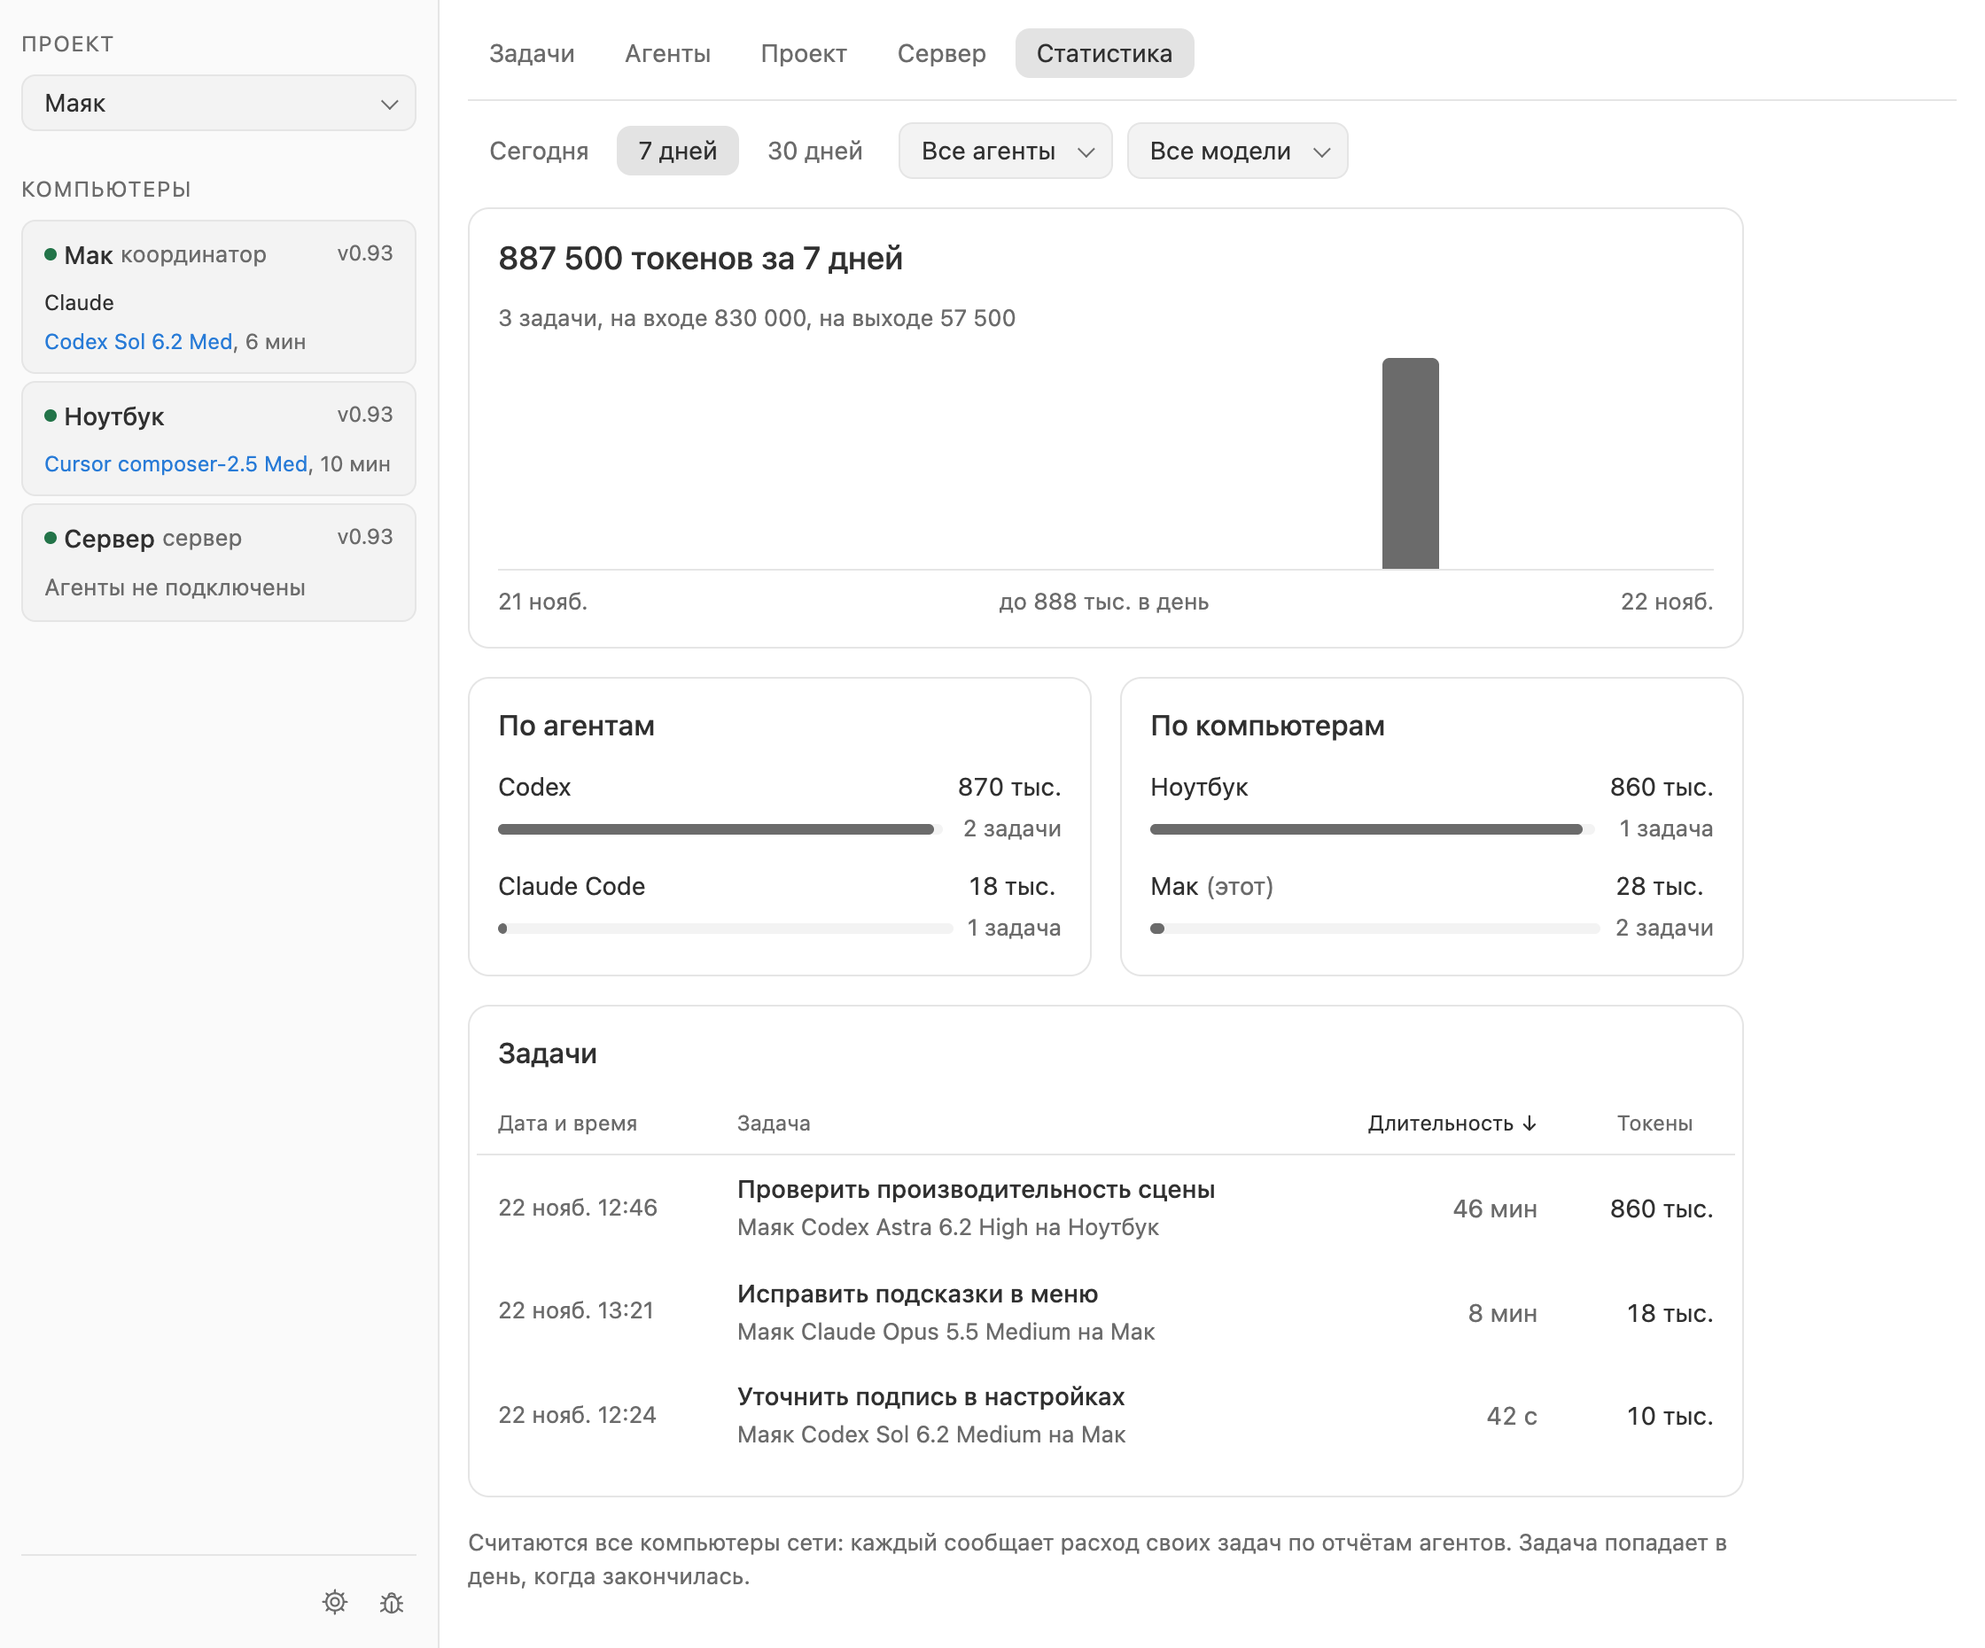
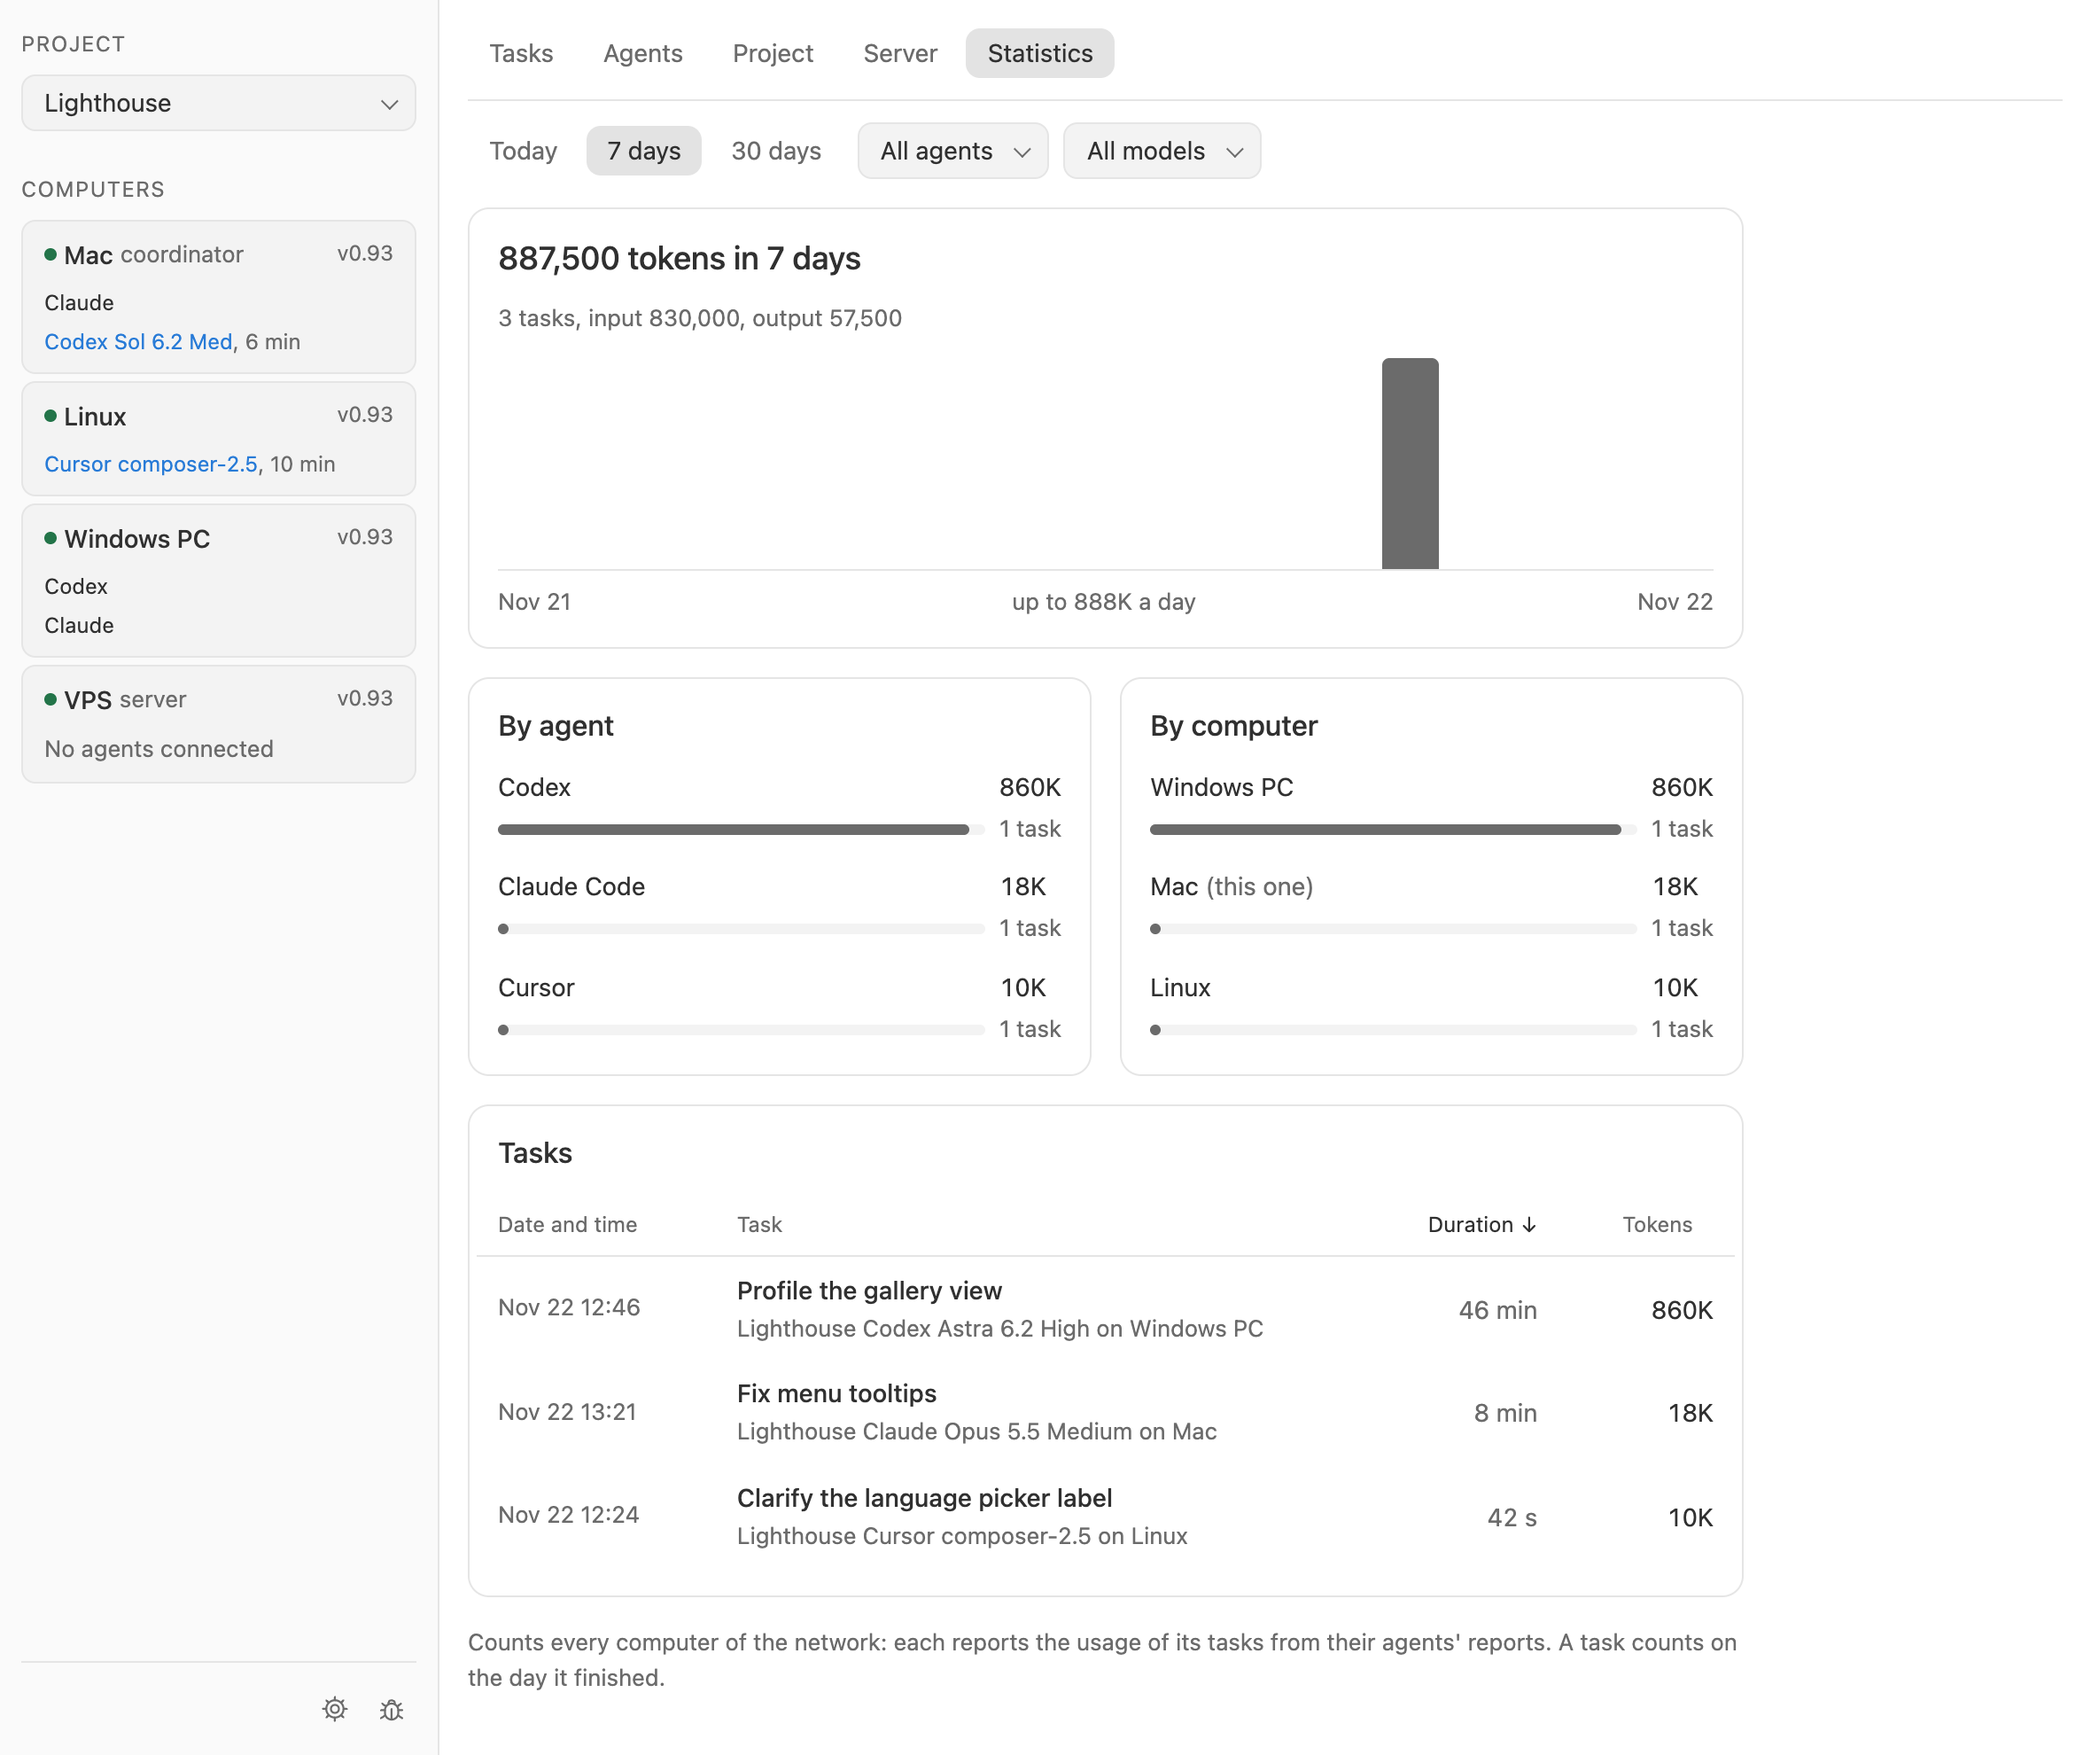
T-245: Show all three agents in the English screenshots (#161)

diff --git a/docs/HANDOFF.md b/docs/HANDOFF.md
@@ -10,6 +10,8 @@ The owner asked the agent to finish the program without them ("доделай б
 
 Updated 2026-11-22 by Codex.
 
+- T-245 follow-up: the public screenshots now use the app's English interface and fictional tasks for Claude Code, Codex and Cursor. Both themes, the statistics view and the first-launch screen were captured in Chromium from 0.93.
+
 - **0.93 is released** ([release](https://github.com/kolotiloff/agent-messenger/releases/tag/v0.0.0-preview.93), [PR #159](https://github.com/kolotiloff/agent-messenger/pull/159), source `efd0e835689c65f4936c3848f1f01e0c20cdf882`, [release run](https://github.com/kolotiloff/agent-messenger/actions/runs/45026379107)). T-241 adds elapsed time and sortable statistics columns. T-242 distinguishes Codex reconnects from unconfirmed runs. T-243 shows the assigning agent, its icon and its model when supplied. T-244 saves the local computer-card order. T-245 refreshes the GitHub overview and screenshots. [CI](https://github.com/kolotiloff/agent-messenger/actions/runs/45025034516) passed. Confirmed 22 published assets and verified the five update manifest signatures, revisions, archive sizes and SHA-256 digests. No installed-app update or live-agent acceptance run.
 
 - **0.92 is released** ([release](https://github.com/kolotiloff/agent-messenger/releases/tag/v0.0.0-preview.92), [PR #154](https://github.com/kolotiloff/agent-messenger/pull/154), source `644d7b8b092855eff7705c4dd637f1e61b9892ac`, [release run](https://github.com/kolotiloff/agent-messenger/actions/runs/44816188665)). T-237 places the amber waiting status inline and removes the extra dot in task cards. T-238 aligns title typography. T-239 labels this computer «координатор» for the selected project while its active coordinator chat is alive. Network routing still sends task events to the assigning computer. [CI](https://github.com/kolotiloff/agent-messenger/actions/runs/44813843278) passed. Confirmed all 22 assets were uploaded and verified the five update manifests against the app public key, release revision and the published archive sizes and SHA-256 digests. No installed-app update or live-agent acceptance run.

diff --git a/docs/TASKS.md b/docs/TASKS.md
@@ -245,7 +245,7 @@ Order of the task model (D-021), following the review's first slice ([RETHINK_RE
 
 | ID | Task | PR |
 |---|---|---|
-| T-245 | Refresh the public GitHub overview and screenshots for 0.93 (owner, 2026-11-22). | Released in [0.93](https://github.com/kolotiloff/agent-messenger/releases/tag/v0.0.0-preview.93) via [PR #159](https://github.com/kolotiloff/agent-messenger/pull/159). |
+| T-245 | Refresh the public GitHub overview and screenshots for 0.93 (owner, 2026-11-22). | Released in [0.93](https://github.com/kolotiloff/agent-messenger/releases/tag/v0.0.0-preview.93) via [PR #159](https://github.com/kolotiloff/agent-messenger/pull/159). Follow-up shows the English interface and all three agents in the public screenshots. |
 | T-244 | Allow manual reordering of computer cards and remember the order (owner, 2026-11-22). | Released in [0.93](https://github.com/kolotiloff/agent-messenger/releases/tag/v0.0.0-preview.93) via [PR #159](https://github.com/kolotiloff/agent-messenger/pull/159) (D-169). |
 | T-243 | Show the assigning agent, its icon and its model when known in the task header (owner, 2026-11-22). | Released in [0.93](https://github.com/kolotiloff/agent-messenger/releases/tag/v0.0.0-preview.93) via [PR #159](https://github.com/kolotiloff/agent-messenger/pull/159) (D-168). |
 | T-242 | Distinguish recovered Codex reconnects from unconfirmed runs at model capacity (owner, 2026-11-22). | Released in [0.93](https://github.com/kolotiloff/agent-messenger/releases/tag/v0.0.0-preview.93) via [PR #159](https://github.com/kolotiloff/agent-messenger/pull/159) (D-167). |

diff --git a/README.md b/README.md
@@ -20,10 +20,10 @@ One coordinator agent hands tasks to worker agents (Claude Code, Codex, Cursor A
 
 <picture>
   <source media="(prefers-color-scheme: dark)" srcset="docs/assets/window-dark.png">
-  <img src="docs/assets/window-light.png" alt="The Agent Messenger window: computers and their agents on the left, a running task in the middle, the task list on the right">
+  <img src="docs/assets/window-light.png" alt="Agent Messenger in English, with Claude Code, Codex and Cursor in the computers and tasks panels">
 </picture>
 
-<sub>The task window with fictional data. The settings button at the bottom left changes the theme and language.</sub>
+<sub>The English task window with Claude Code, Codex and Cursor, using fictional data. The settings button at the bottom left changes the theme and language.</sub>
 
 ## What it does
 

diff --git a/docs/LOG.md b/docs/LOG.md
@@ -2,6 +2,10 @@
 
 One entry per work session, newest first. Write what was done, which tool did it, the PR, and anything the next session must know. Keep entries to a few lines; details belong in PRs and reports.
 
+## 2026-11-22 — Codex (T-245 follow-up)
+
+- Captured new English screenshots for the public README and download guide. Both themes show Claude Code, Codex and Cursor with fictional tasks. Also captured the English statistics table and welcome screen.
+
 ## 2026-11-22 — Codex (T-241 to T-245)
 
 - Published [0.93](https://github.com/kolotiloff/agent-messenger/releases/tag/v0.0.0-preview.93) from `efd0e83` and verified the five manifest signatures and archive digests.
